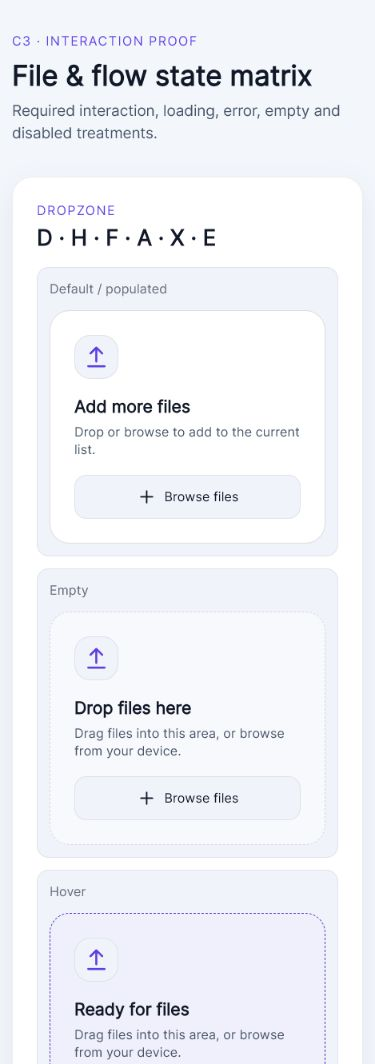
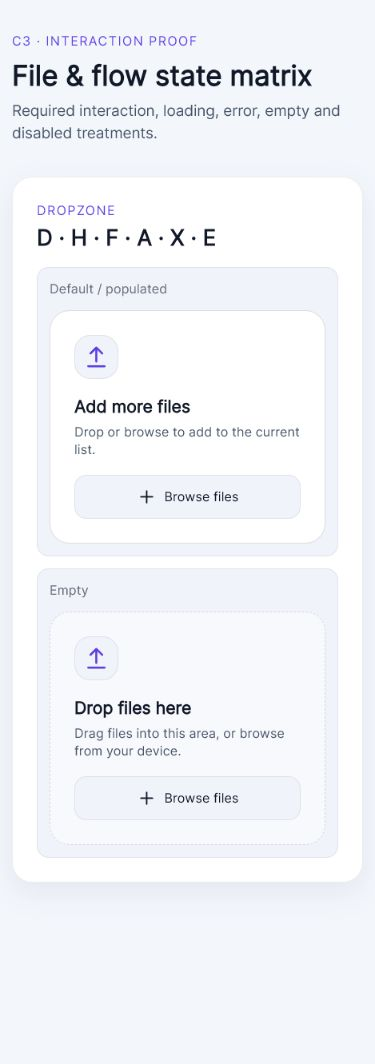
fix: validate C3 ownership and visual evidence

diff --git a/evidence/unit-10-gallery.jsx b/evidence/unit-10-gallery.jsx
@@ -82,8 +82,8 @@ function StateMatrix() {
           <div className="flow-state-grid flow-state-grid--three">
             <StateTile label="Default / populated" part="a"><Dropzone empty={false} /></StateTile>
             <StateTile label="Empty" part="a"><Dropzone /></StateTile>
-            <StateTile label="Hover" className="force-hover" part="a"><Dropzone title="Ready for files" /></StateTile>
-            <StateTile label="Focus" className="force-focus" part="a"><Dropzone title="Keyboard ready" /></StateTile>
+            <StateTile label="Hover" className="force-hover" part="c"><Dropzone title="Ready for files" /></StateTile>
+            <StateTile label="Focus" className="force-focus" part="c"><Dropzone title="Keyboard ready" /></StateTile>
             <StateTile label="Drag-over" className="force-drag" part="b"><Dropzone title="Release to add" /></StateTile>
             <StateTile label="Paste" part="b"><Dropzone variant="paste" /></StateTile>
             <StateTile label="Disabled" part="b"><Dropzone disabled /></StateTile>

diff --git a/src/tests/primitives-file-flow.test.jsx b/src/tests/primitives-file-flow.test.jsx
@@ -218,6 +218,20 @@ describe('C3 flow primitives', () => {
     expect(() => renderToStaticMarkup(
       <ResumeStrip uploadSessions={[session]} onResume={() => {}} onDiscard={() => {}} />,
     )).toThrow(/hub and mode/i);
+    expect(() => renderToStaticMarkup(
+      <ResumeStrip
+        uploadSessions={[{ ...session, href: '?mode=convert' }]}
+        onResume={() => {}}
+        onDiscard={() => {}}
+      />,
+    )).toThrow(/hub and mode/i);
+    expect(() => renderToStaticMarkup(
+      <ResumeStrip
+        uploadSessions={[{ ...session, href: 'https://example.test/?mode=convert' }]}
+        onResume={() => {}}
+        onDiscard={() => {}}
+      />,
+    )).toThrow(/hub and mode/i);
   });
 
   it('filters terminal jobs out of the full ResumeStrip', () => {

diff --git a/src/next/components/ResumeStrip.jsx b/src/next/components/ResumeStrip.jsx
@@ -7,7 +7,7 @@ import { formatBytes } from './FileRow';
 function entryHref(entry) {
   if (entry.href) {
     const href = String(entry.href);
-    if (!/[?&]mode=[^&]+/.test(href)) {
+    if (!/^#\/[a-z0-9-]+\?mode=[^&#]+(?:&[^#]*)?$/i.test(href)) {
       throw new Error('ResumeStrip href must name the owning hub and mode.');
     }
     return href;
